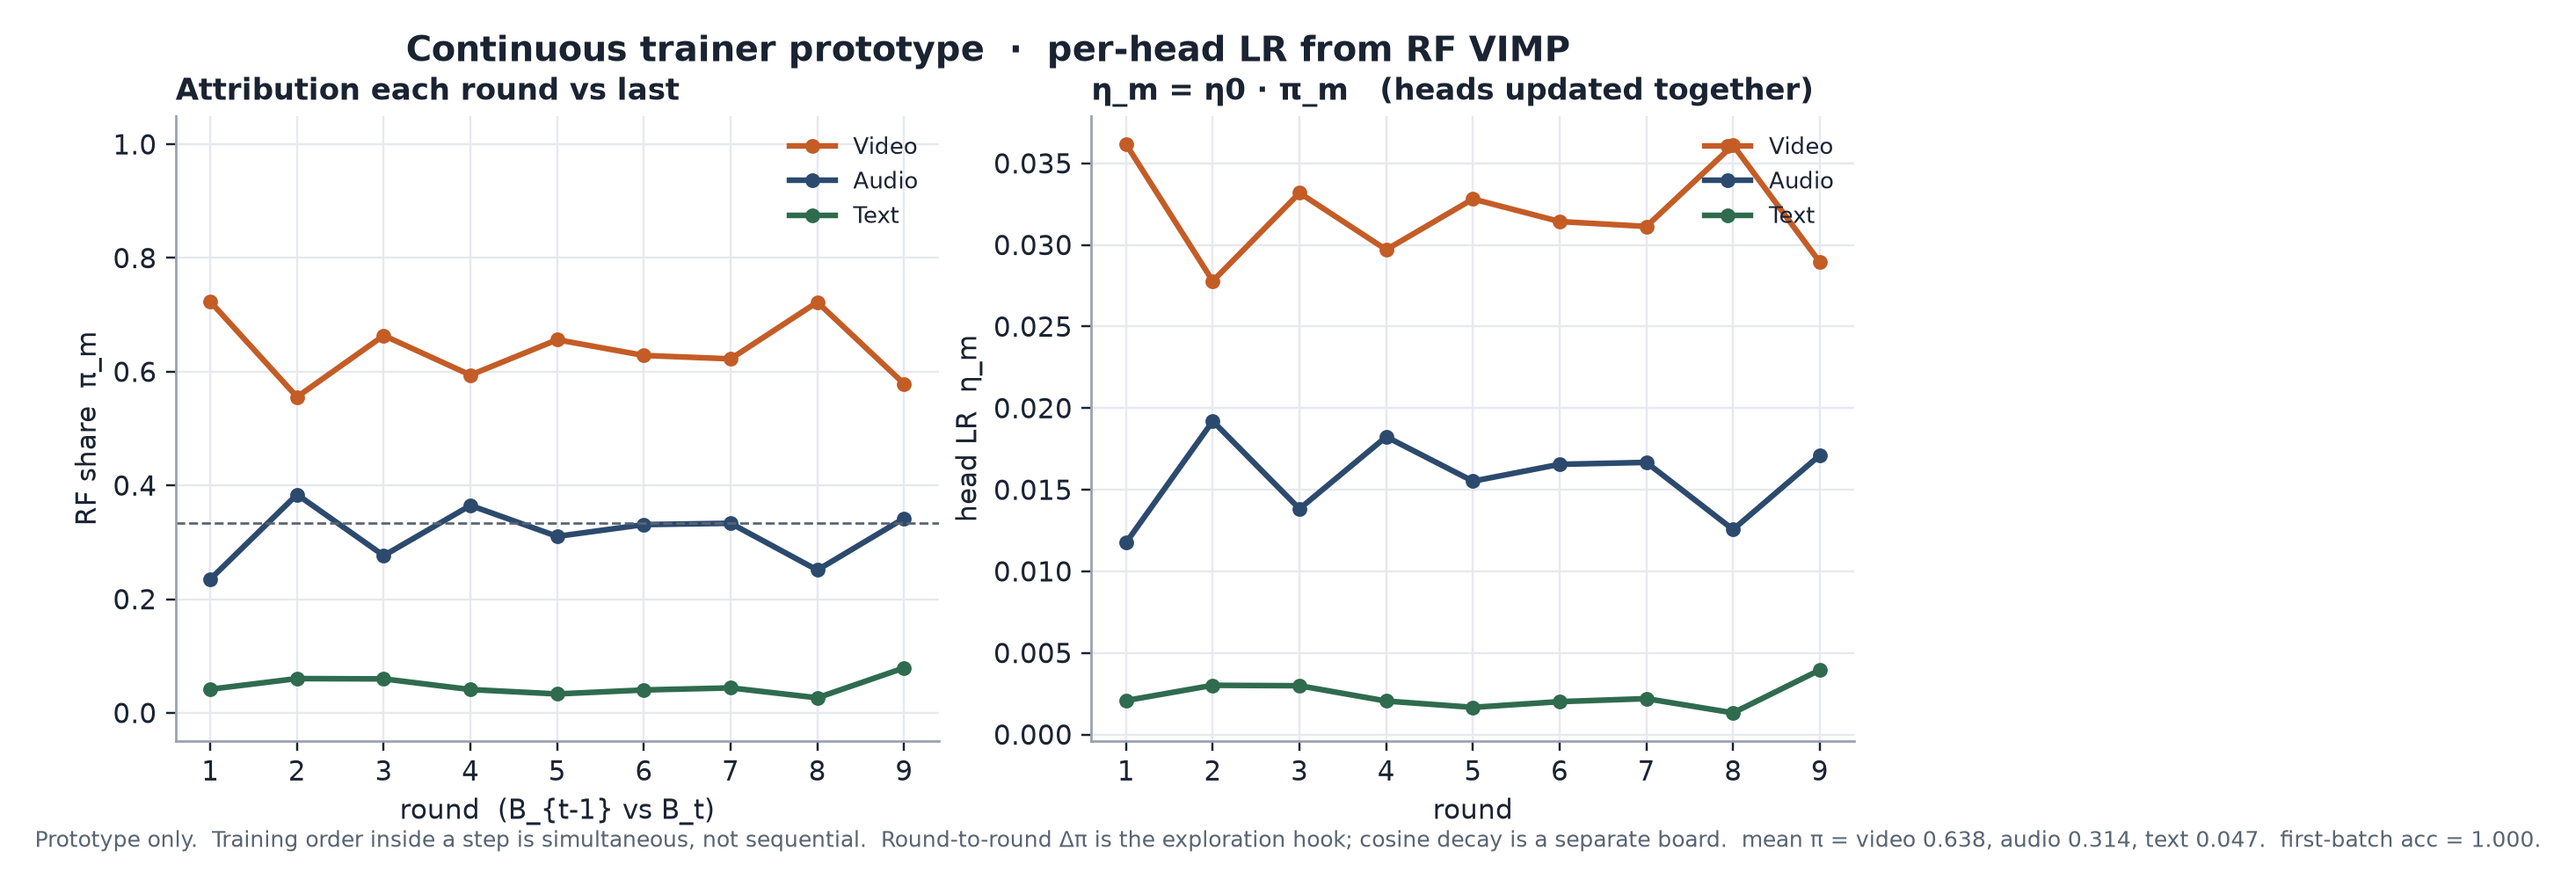
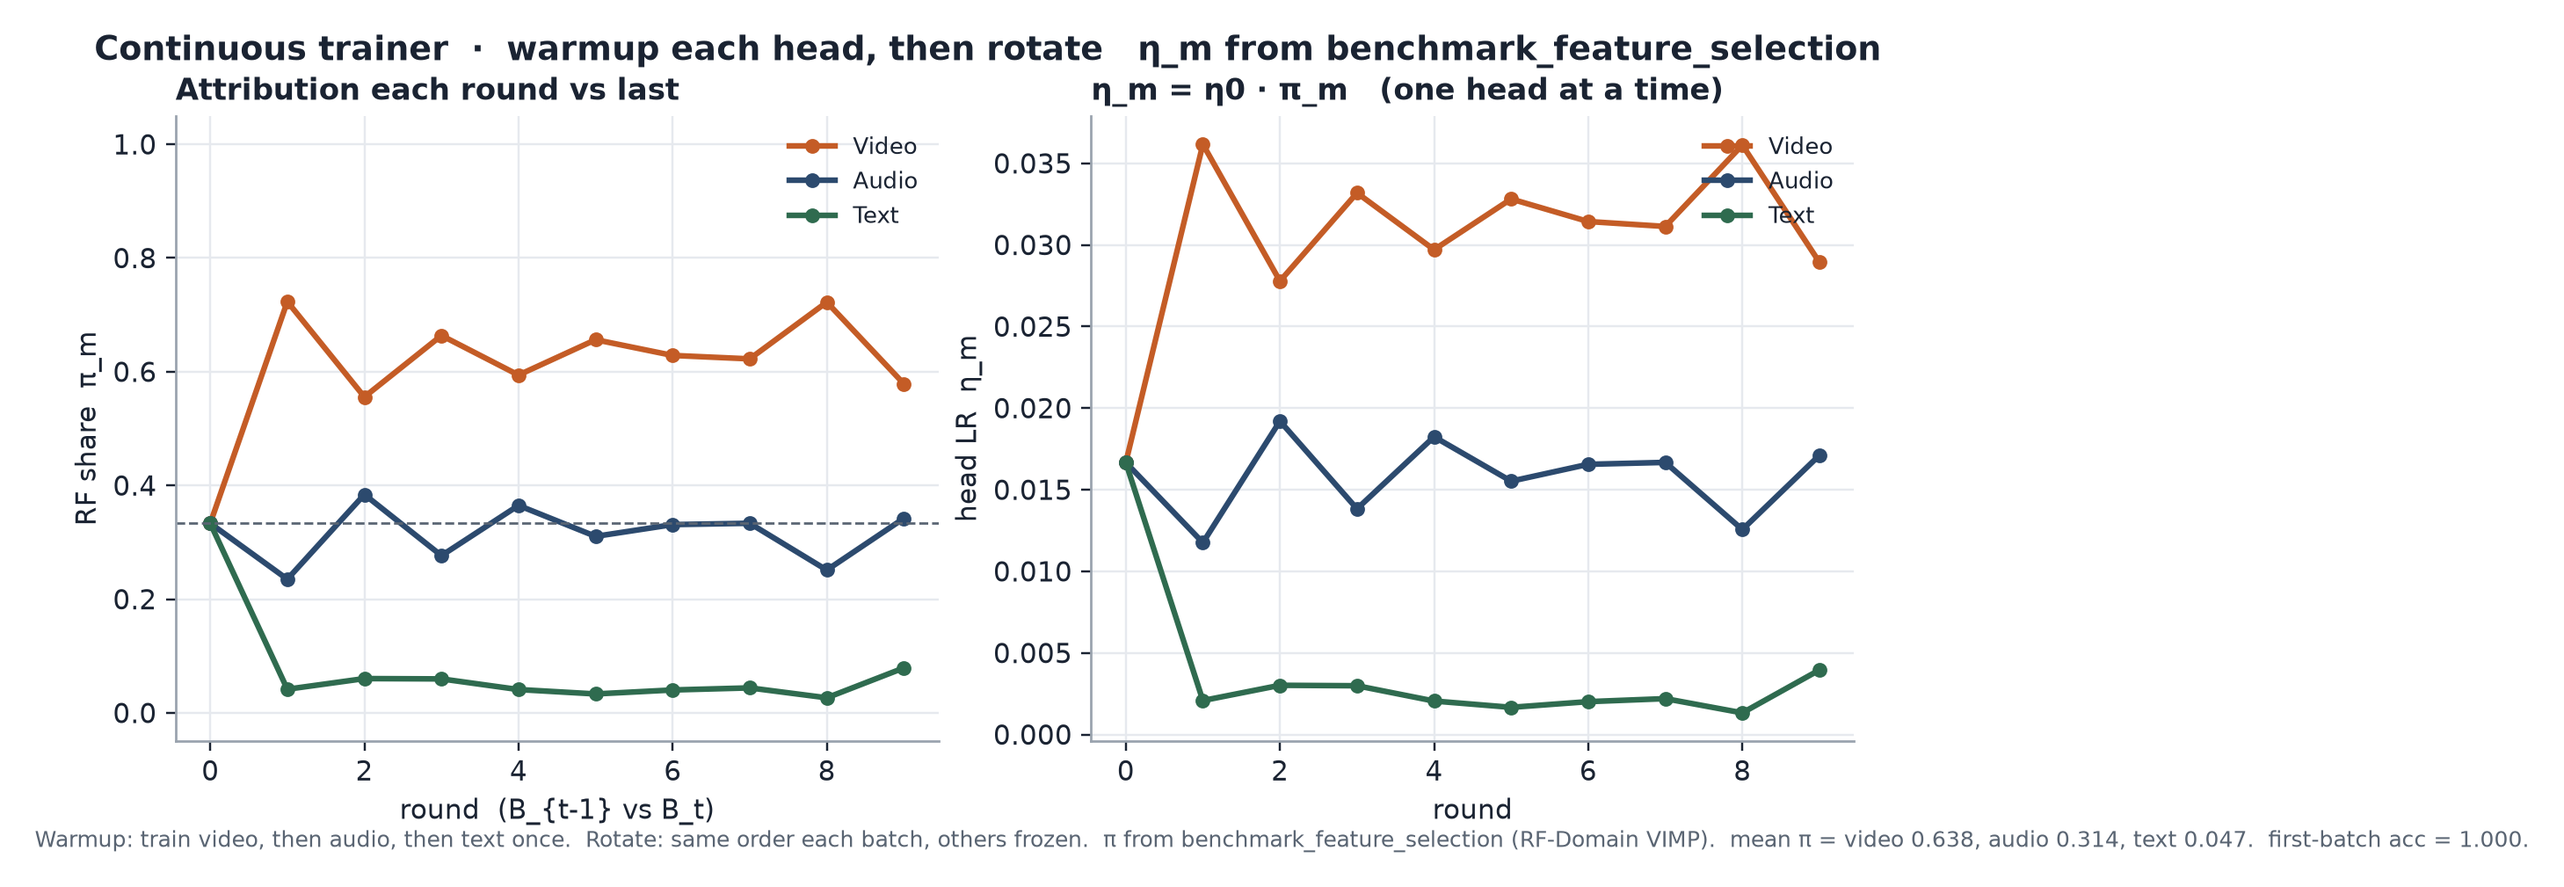
Train one head per modality, then rotate; VIMP via benchmark_feature_selection.
Warmup walks video → audio → text once with others frozen. Later batches
repeat that order. Per-head LR follows RF-Domain shares from the selector hook.

diff --git a/Python/src/msrvtt_continuous_trainer.py b/Python/src/msrvtt_continuous_trainer.py
@@ -1,15 +1,11 @@
-"""Prototype continuous trainer: per-head LR from FSDS shares.
+"""Prototype continuous trainer: one head per modality, then rotate.
 
-Streaming loop (order of heads inside a step does not matter; all three
-are updated together):
+  1. Add a linear head for video / audio / text.
+  2. Warmup: train each head once (the other heads stay frozen).
+  3. Rotate: cycle video → audio → text; only the active head gets SGD.
+     η_m = η0 · π_m from RF-Domain VIMP on B_{t-1} vs B_t.
 
-  for t = 1..K-1:
-      π_t ← RF-Domain VIMP on consecutive batches (B_{t-1} vs B_t)
-      SGD on B_t, video-id probe, η_m = η0 * π_{t,m}
-      log π_t against π_{t-1}
-
-This is a prototype of using attribution scores as training controls,
-not a production online learner. Cosine decay is a separate board.
+Heads are summed at inference. Cosine decay is a separate board.
 """
 from __future__ import annotations
 
@@ -23,7 +19,7 @@ from msrvtt_multimodal_attribution import (
     SEED,
     assign_temporal_batches,
     modality_mass,
-    rf_domain,
+    benchmark_feature_selection,
     standardize_columns,
 )
 
@@ -41,7 +37,7 @@ def _split_modalities(X):
 
 @dataclass
 class SeparateHeadProbe:
-    """Late-sum of three linear heads. One SGD step updates all heads jointly."""
+    """Late-sum of three linear heads. SGD updates one ``active`` head at a time."""
 
     n_classes: int
     seed: int = SEED
@@ -62,15 +58,17 @@ class SeparateHeadProbe:
             z = term if z is None else z + term
         return z
 
-    def step(self, Xs, y, lrs):
+    def step(self, Xs, y, lrs, active=None):
+        """Update only ``active``; pass a name during warmup and rotate."""
         y = np.asarray(y, dtype=int)
         P = _softmax(self.logits(Xs))
         n = len(y)
         G = P.copy()
         G[np.arange(n), y] -= 1.0
         G /= max(n, 1)
-        for name in GROUP_NAMES:
-            self.W[name] = self.W[name] - float(lrs[name]) * (Xs[name].T @ G)
+        names = (active,) if active else GROUP_NAMES
+        for name in names:
+            self.W[name] = self.W[name] - float(lrs.get(name, 0.0)) * (Xs[name].T @ G)
 
     def acc(self, Xs, y):
         y = np.asarray(y, dtype=int)
@@ -81,9 +79,13 @@ class SeparateHeadProbe:
 def consecutive_rf_share(X0, X1, seed=SEED, n_estimators=40):
     if len(X0) < 8 or len(X1) < 8:
         return {g: 1.0 / 3.0 for g in GROUP_NAMES}, float("nan")
-    vimp, auc = rf_domain(X0, X1, seed=seed, n_estimators=n_estimators)
+    vimp, auc = benchmark_feature_selection(X0, X1, seed=seed, n_estimators=n_estimators)
     _, share = modality_mass(vimp)
     return share, float(auc)
+
+
+def _minibatch(rng, n, chunk):
+    return rng.choice(n, size=min(chunk, n), replace=False)
 
 
 def run_continuous_trainer(
@@ -91,11 +93,12 @@ def run_continuous_trainer(
     n_batches=10,
     eta0=0.05,
     steps_per_batch=8,
+    warmup_steps=4,
     n_estimators=40,
     seed=SEED,
     equal_lr=False,
 ):
-    """Stream temporal bins; set per-head LR from consecutive-batch RF shares."""
+    """Warmup each head once, then rotate heads with η_m from consecutive-batch RF shares."""
     X = standardize_columns(bundle.X)
     y_raw = np.asarray(bundle.video_id)
     classes, y = np.unique(y_raw, return_inverse=True)
@@ -105,6 +108,33 @@ def run_continuous_trainer(
     rng = np.random.default_rng(seed)
     pi_prev = {g: 1.0 / 3.0 for g in GROUP_NAMES}
     history = []
+    updates = {g: 0 for g in GROUP_NAMES}
+
+    i_warm = np.flatnonzero(batch == 0)
+    Xs_w, yw = _split_modalities(X[i_warm]), y[i_warm]
+    chunk_w = max(4, i_warm.size // 2)
+    warm_lr = {g: eta0 / 3.0 for g in GROUP_NAMES}
+    for head in GROUP_NAMES:
+        for _ in range(int(max(1, warmup_steps))):
+            sl = _minibatch(rng, i_warm.size, chunk_w)
+            Xs = {g: Xs_w[g][sl] for g in GROUP_NAMES}
+            probe.step(Xs, yw[sl], warm_lr, active=head)
+            updates[head] += 1
+    history.append(
+        {
+            "round": 0,
+            "phase": "warmup",
+            "batch": 0,
+            "active": list(GROUP_NAMES),
+            "pi": dict(pi_prev),
+            "delta_pi": {g: 0.0 for g in GROUP_NAMES},
+            "lr": {g: float(warm_lr[g]) for g in GROUP_NAMES},
+            "auc_shift": float("nan"),
+            "acc_video_id": probe.acc(Xs_w, yw),
+            "n": int(i_warm.size),
+            "updates": dict(updates),
+        }
+    )
 
     for t in range(1, n_batches):
         i0, i1 = np.flatnonzero(batch == t - 1), np.flatnonzero(batch == t)
@@ -113,39 +143,49 @@ def run_continuous_trainer(
             lrs = {g: eta0 / 3.0 for g in GROUP_NAMES}
         else:
             lrs = {g: eta0 * float(share[g]) for g in GROUP_NAMES}
-        idx = i1
-        Xs_all = _split_modalities(X[idx])
-        yb = y[idx]
-        chunk = max(4, idx.size // 2)
-        for _ in range(steps_per_batch):
-            sl = rng.choice(idx.size, size=min(chunk, idx.size), replace=False)
-            Xs = {g: Xs_all[g][sl] for g in GROUP_NAMES}
-            probe.step(Xs, yb[sl], lrs)
+        Xs_all = _split_modalities(X[i1])
+        yb = y[i1]
+        chunk = max(4, i1.size // 2)
+        active_seq = []
+        n_steps = max(1, int(steps_per_batch) // 3)
+        for head in GROUP_NAMES:
+            for _ in range(n_steps):
+                sl = _minibatch(rng, i1.size, chunk)
+                Xs = {g: Xs_all[g][sl] for g in GROUP_NAMES}
+                probe.step(Xs, yb[sl], lrs, active=head)
+                updates[head] += 1
+                active_seq.append(head)
         acc = probe.acc(Xs_all, yb)
         delta = {g: float(share[g] - pi_prev[g]) for g in GROUP_NAMES}
         history.append(
             {
                 "round": t,
+                "phase": "rotate",
                 "batch_prev": t - 1,
                 "batch": t,
+                "active": active_seq,
                 "pi": {g: float(share[g]) for g in GROUP_NAMES},
                 "delta_pi": delta,
                 "lr": {g: float(lrs[g]) for g in GROUP_NAMES},
                 "auc_shift": auc,
                 "acc_video_id": acc,
-                "n": int(idx.size),
+                "n": int(i1.size),
+                "updates": dict(updates),
             }
         )
         pi_prev = {g: float(share[g]) for g in GROUP_NAMES}
 
     hold = np.flatnonzero(batch == n_batches - 1)
     first = np.flatnonzero(batch == 0)
+    rotate = [h for h in history if h.get("phase") == "rotate"]
+    pi_src = rotate or history
     summary = {
         "n_batches": n_batches,
         "n_classes": int(classes.size),
         "equal_lr": bool(equal_lr),
         "eta0": float(eta0),
-        "mean_pi": {g: float(np.mean([h["pi"][g] for h in history])) for g in GROUP_NAMES},
+        "schedule": "warmup_each_head_then_rotate",
+        "mean_pi": {g: float(np.mean([h["pi"][g] for h in pi_src])) for g in GROUP_NAMES},
         "last_batch_acc": probe.acc(_split_modalities(X[hold]), y[hold]) if hold.size else float("nan"),
         "first_batch_acc": probe.acc(_split_modalities(X[first]), y[first]) if first.size else float("nan"),
         "holdout_acc": probe.acc(_split_modalities(X[first]), y[first]) if first.size else float("nan"),
@@ -162,7 +202,12 @@ def plot_continuous_trainer(summary, path):
     hist = summary["history"]
     rounds = [h["round"] for h in hist]
     fig, axes = plt.subplots(1, 2, figsize=(11.2, 4.2))
-    fig.suptitle("Continuous trainer prototype  ·  per-head LR from RF VIMP", fontsize=13, fontweight="bold", color=INK)
+    fig.suptitle(
+        "Continuous trainer  ·  warmup each head, then rotate   η_m from benchmark_feature_selection",
+        fontsize=12.5,
+        fontweight="bold",
+        color=INK,
+    )
     ax = axes[0]
     for g in GROUP_NAMES:
         ax.plot(rounds, [h["pi"][g] for h in hist], color=COLORS[g], lw=2.1, marker="o", ms=4.5, label=g.capitalize())
@@ -178,14 +223,14 @@ def plot_continuous_trainer(summary, path):
         ax.plot(rounds, [h["lr"][g] for h in hist], color=COLORS[g], lw=2.1, marker="o", ms=4.5, label=g.capitalize())
     ax.set_xlabel("round")
     ax.set_ylabel("head LR  η_m")
-    ax.set_title("η_m = η0 · π_m   (heads updated together)", loc="left", fontsize=11, fontweight="bold")
+    ax.set_title("η_m = η0 · π_m   (one head at a time)", loc="left", fontsize=11, fontweight="bold")
     ax.legend(frameon=False, fontsize=8.5)
     ax.grid(True, color=GRID)
     fig.text(
         0.06,
         -0.02,
-        "Prototype only.  Training order inside a step is simultaneous, not sequential.  "
-        "Round-to-round Δπ is the exploration hook; cosine decay is a separate board.  "
+        "Warmup: train video, then audio, then text once.  Rotate: same order each batch, others frozen.  "
+        "π from benchmark_feature_selection (RF-Domain VIMP).  "
         "mean π = video %.3f, audio %.3f, text %.3f.  first-batch acc = %.3f."
         % (
             summary["mean_pi"]["video"],

diff --git a/tests/test_msrvtt_continuous_trainer.py b/tests/test_msrvtt_continuous_trainer.py
@@ -19,8 +19,13 @@ def test_continuous_trainer_logs_round_to_round_pi():
     )
     summary, probe = run_continuous_trainer(b, n_batches=10, eta0=0.04, steps_per_batch=4, n_estimators=25, seed=8)
     assert summary["n_batches"] == 10
-    assert len(summary["history"]) == 9
-    for row in summary["history"]:
+    assert len(summary["history"]) == 10
+    assert summary["history"][0]["phase"] == "warmup"
+    assert summary["history"][0]["active"] == list(GROUP_NAMES)
+    rot = [h for h in summary["history"] if h["phase"] == "rotate"]
+    assert len(rot) == 9
+    assert rot[0]["active"][:3] == list(GROUP_NAMES)
+    for row in rot:
         s = sum(row["pi"][g] for g in GROUP_NAMES)
         assert abs(s - 1.0) < 1e-6
         assert set(row["lr"]) == set(GROUP_NAMES)

diff --git a/Python/src/msrvtt_multimodal_attribution.py b/Python/src/msrvtt_multimodal_attribution.py
@@ -117,6 +117,15 @@ def rf_domain(X0, X1, seed=SEED, n_estimators=150):
     return vimp, auc
 
 
+def benchmark_feature_selection(X0, X1, seed=SEED, n_estimators=40):
+    """FSDS domain-shift feature selection on two batches (RF-Domain VIMP).
+
+    Drop-in hook: swap the body for another selector; shares still come from
+    ``modality_mass(vimp)``.
+    """
+    return rf_domain(X0, X1, seed=seed, n_estimators=n_estimators)
+
+
 def _import_mmd():
     import sys
 
